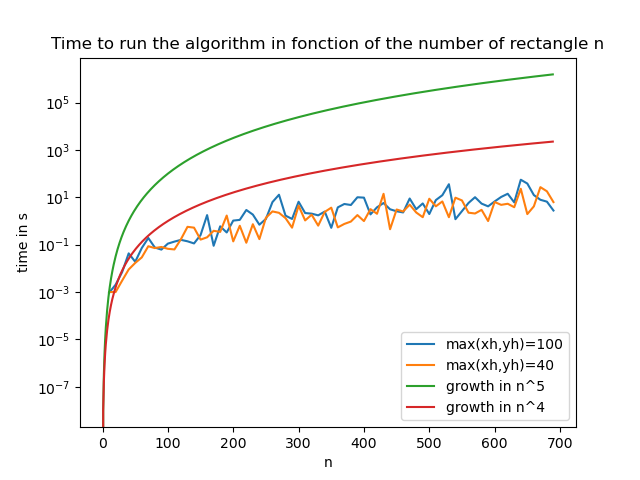
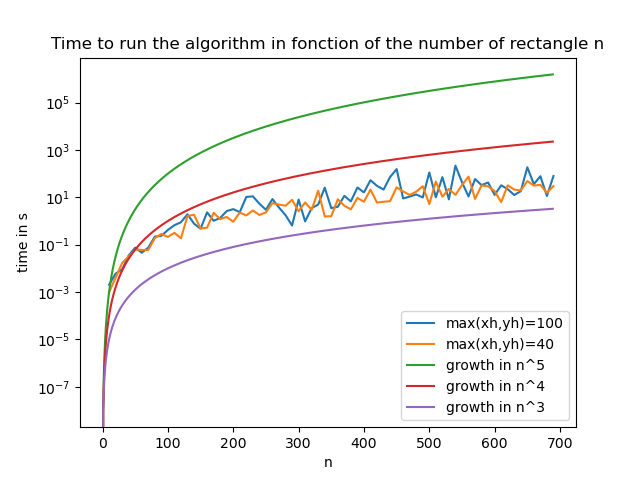
presentation updte

diff --git a/limit_ratio.py b/limit_ratio.py
@@ -11,9 +11,9 @@ import copy
 
 maxpower= 5 #must be odd for good graph if //2
 if maxpower<=7: #plot the figures
-    fig, ax=plt.subplots(maxpower//2+1,2,sharex='col')
-    fig.set_figheight(10)
-    fig.set_figwidth(10)
+    fig, ax=plt.subplots(2,maxpower//2+1)
+    fig.set_figheight(12)
+    fig.set_figwidth(25)
 
 else:#plot a graph
     fig=plt.figure(figsize=(10,10))
@@ -80,29 +80,32 @@ for power in range(0,maxpower+1):
     if maxpower<=7:
         if power<=maxpower//2:
             for R in Origin_Rect:
-                ax[power,0].add_patch(Rectangle((R.xb,R.yb),R.w,(R.yh-R.yb),ec="black",fc=(0,0,1,0.2),lw=2))
+                ax[0,power].add_patch(Rectangle((R.xb,R.yb),R.w,(R.yh-R.yb),ec="black",fc=(0,0,1,0.2),lw=2))
         
             for se in segm_feasible:
-                ax[power,0].plot([se.s,se.e],[se.h,se.h],color='r')
+                ax[0,power].plot([se.s,se.e],[se.h,se.h],color='r')
 
-            ax[power,0].set_title('ratio='+str(ratio)+', length='+str(2**power+1)+', start='+str(2**(power+1)))
+            ax[0,power].set_title('ratio={:.3f}, start={:}, lenght={:.3f}'.format(ratio,2**(power+1),2**power+1),fontsize=15)
         
             #tick postion
-            ax[power,0].xaxis.set_major_locator(plt.MultipleLocator(4))
-            ax[power,0].grid()
+            ax[0,power].xaxis.set_major_locator(plt.MultipleLocator(4))
+            ax[0,power].grid()
 
         else:
             for R in Origin_Rect:
-                ax[power-maxpower//2-1,1].add_patch(Rectangle((R.xb,R.yb),R.w,(R.yh-R.yb),ec="black",fc=(0,0,1,0.2),lw=2))
+                ax[1,power-maxpower//2-1].add_patch(Rectangle((R.xb,R.yb),R.w,(R.yh-R.yb),ec="black",fc=(0,0,1,0.2),lw=2))
         
             for se in segm_feasible:
-                ax[power-maxpower//2-1,1].plot([se.s,se.e],[se.h,se.h],color='r')
+                ax[1,power-maxpower//2-1].plot([se.s,se.e],[se.h,se.h],color='r')
 
-            ax[power-maxpower//2-1,1].set_title('ratio='+str(ratio)+', start='+str(2**(power+1))+', length='+str(2**power+1))
+            ax[1,power-maxpower//2-1].set_title('ratio={:.3f}, start={:}, lenght={:.3f}'.format(ratio,2**(power+1),2**power+1),fontsize=15)
         
             #tick postion
-            ax[power-maxpower//2-1,1].xaxis.set_major_locator(plt.MultipleLocator(64))
-            ax[power-maxpower//2-1,1].grid()
+            if power<=6:
+                ax[1,power-maxpower//2-1].xaxis.set_major_locator(plt.MultipleLocator(32))
+            else:
+                ax[1,power-maxpower//2-1].xaxis.set_major_locator(plt.MultipleLocator(64))
+            ax[1,power-maxpower//2-1].grid()
 
     else:
         power2.append(power)
@@ -110,8 +113,8 @@ for power in range(0,maxpower+1):
 
 
 if maxpower<=7:
-    fig.suptitle('Limit of the ratio')
-    plt.savefig('limit_ratio_need2_to'+str(maxpower))
+    fig.suptitle('Limit of the ratio',fontsize=25)
+    plt.savefig('limit_ratio_need2_to_line'+str(maxpower))
 
 else:
     plt.plot(power2,list_ratio)

diff --git a/laminar_graph.py b/laminar_graph.py
@@ -1,0 +1,43 @@
+import ClassRectangle
+import random as rd
+import matplotlib.pyplot as plt
+from matplotlib.patches import Rectangle
+import copy
+
+n=7 #max number of Rectangle in E -1
+maxx=28 #maximum value for x-1 and y-1
+maxy=30
+List_Rect=[]
+for i in range(0,n-1):
+    xb=rd.randrange(0,maxx-1)
+    yb=rd.randrange(0,maxy-1)
+    List_Rect.append(ClassRectangle.Rectangle(xb,yb, rd.randrange(xb+1,maxx), rd.randrange(yb+1,maxy)))
+E=ClassRectangle.Ensemble(List_Rect)
+
+Origin_Rect=copy.deepcopy(List_Rect) #copy of the original Rectangle list
+
+E.transform_to_laminar()
+
+fig, ax=plt.subplots(2,sharex=True)
+fig.set_figheight(8)
+fig.set_figwidth(10)
+
+for r in Origin_Rect:
+    ax[0].add_patch(Rectangle((r.xb,r.yb),r.w,(r.yh-r.yb),ec="black",fc=(0,0,1,0.2),lw=2))
+    ax[0].plot()
+
+for R in E.Rects:
+    ax[1].add_patch(Rectangle((R.xb,R.yb),R.w,(R.yh-R.yb),ec="black",fc=(0,0,1,0.2),lw=2))
+    ax[1].plot()
+
+ax[0].set_title('Original instance')
+ax[1].set_title('Laminar instance')
+
+ax[0].xaxis.set_major_locator(plt.MultipleLocator(2))
+ax[1].xaxis.set_major_locator(plt.MultipleLocator(2))
+
+ax[0].grid()
+ax[1].grid()
+
+plt.savefig('laminar_exemple5.png')
+plt.show()

diff --git a/test_complexity.py b/test_complexity.py
@@ -33,8 +33,10 @@ for maxx in maxXY:
 X=[i for i in range(0,N[-1])]
 X5=[10**(-8)*x**5 for x in X]
 X4=[10**(-8)*x**4 for x in X]
+X3=[10**(-8)*x**3 for x in X]
 plt.semilogy(X,X5,label='growth in n^5')
 plt.semilogy(X,X4,label='growth in n^4')
+plt.semilogy(X,X3,label='growth in n^3')
 plt.title('Time to run the algorithm in fonction of the number of rectangle n')
 plt.ylabel('time in s')
 plt.xlabel('n')
